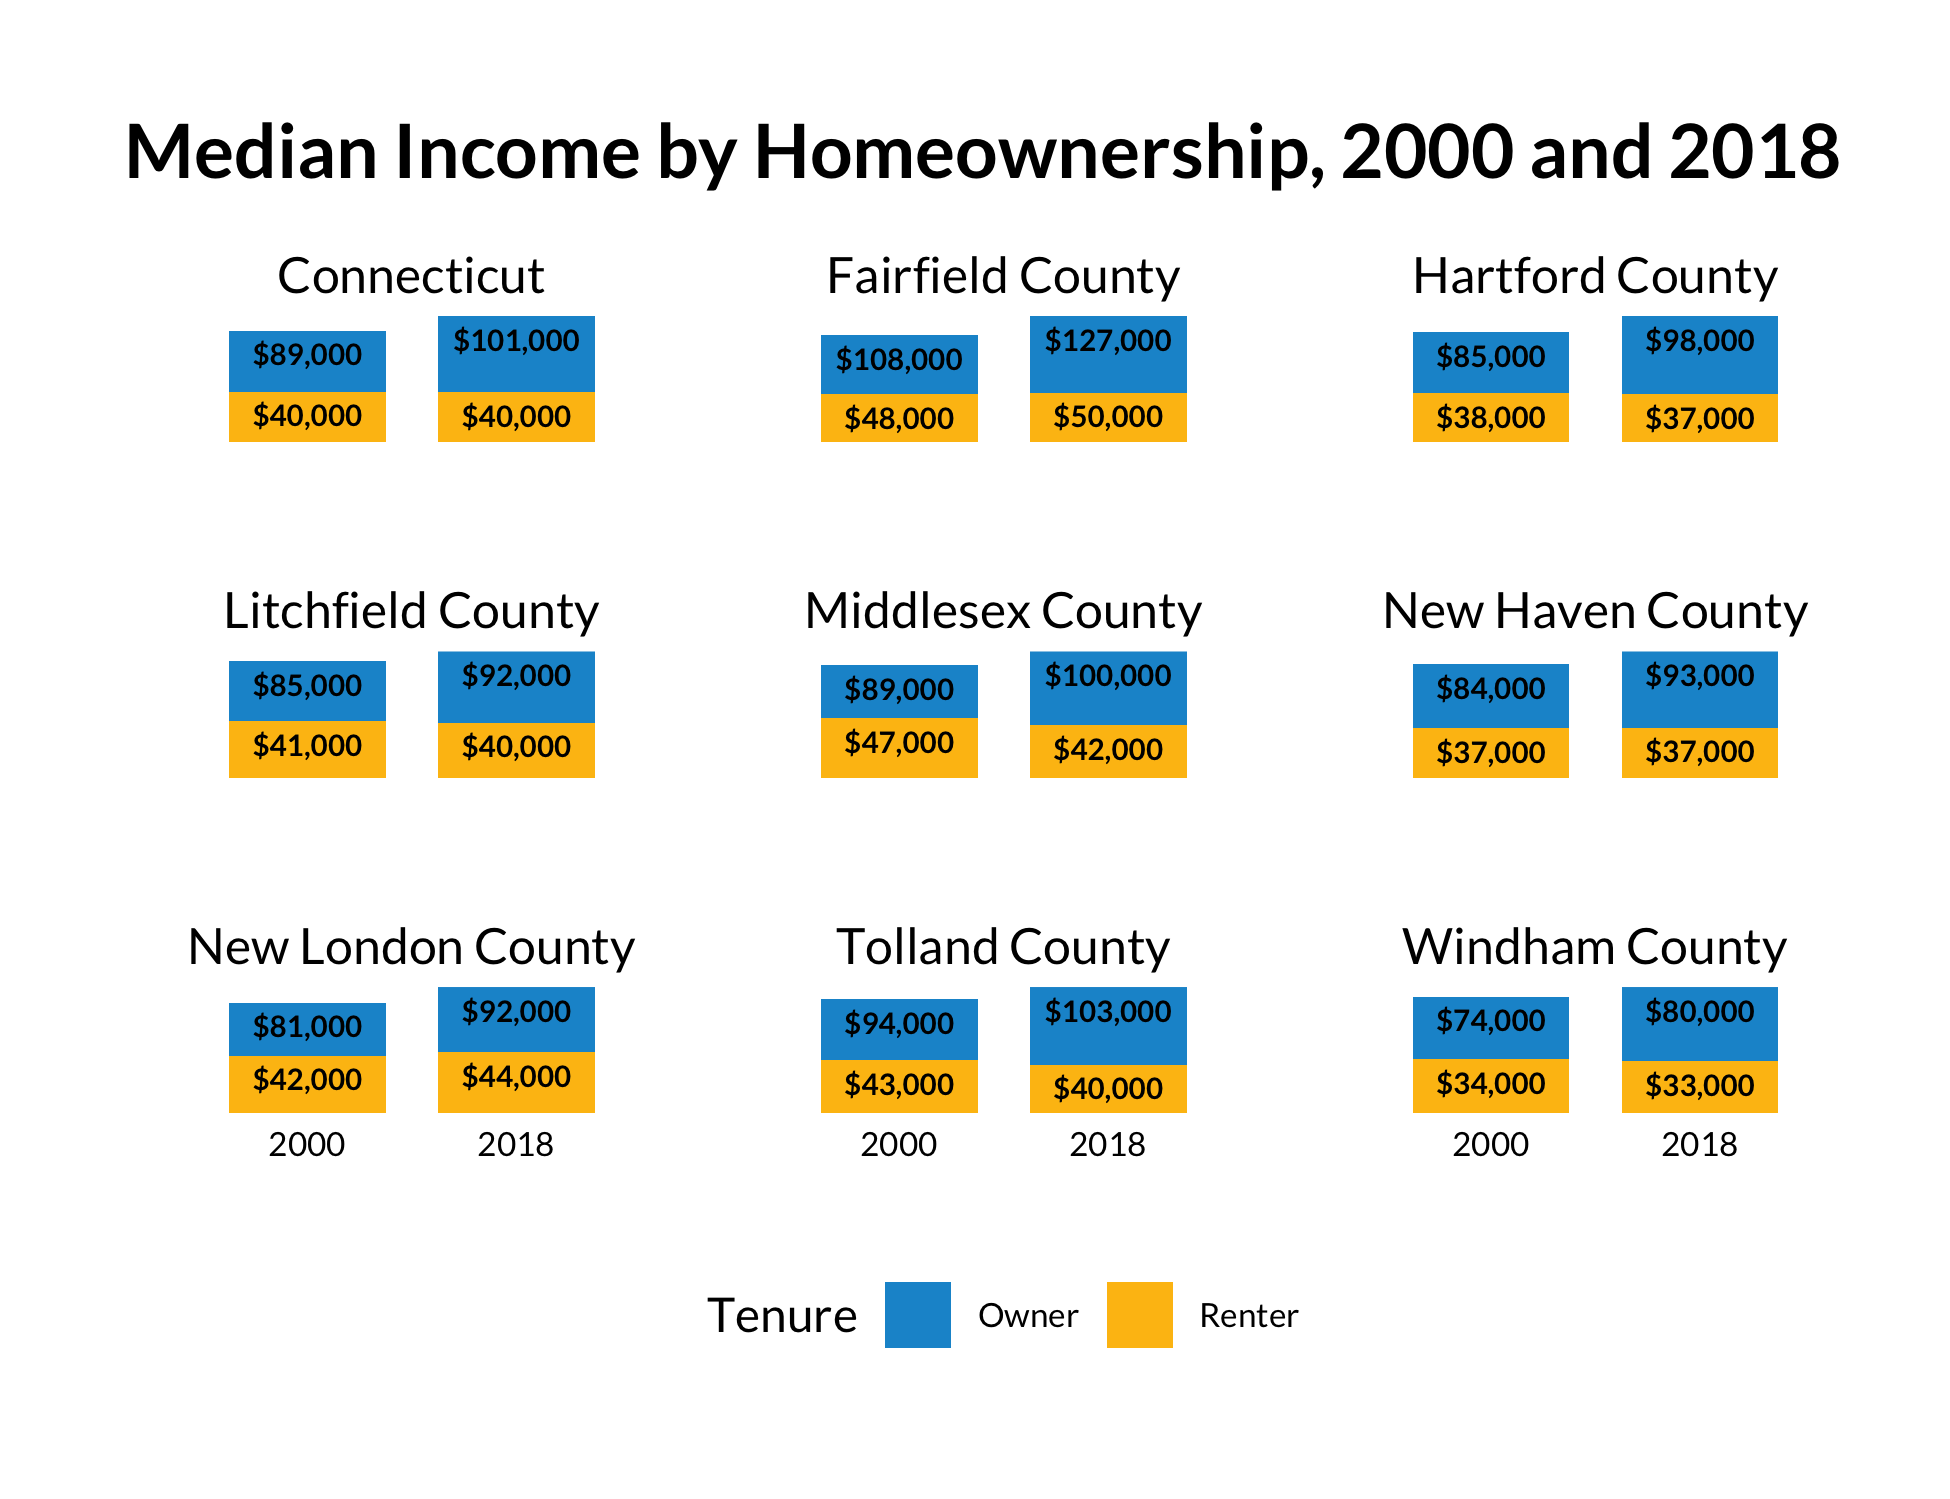
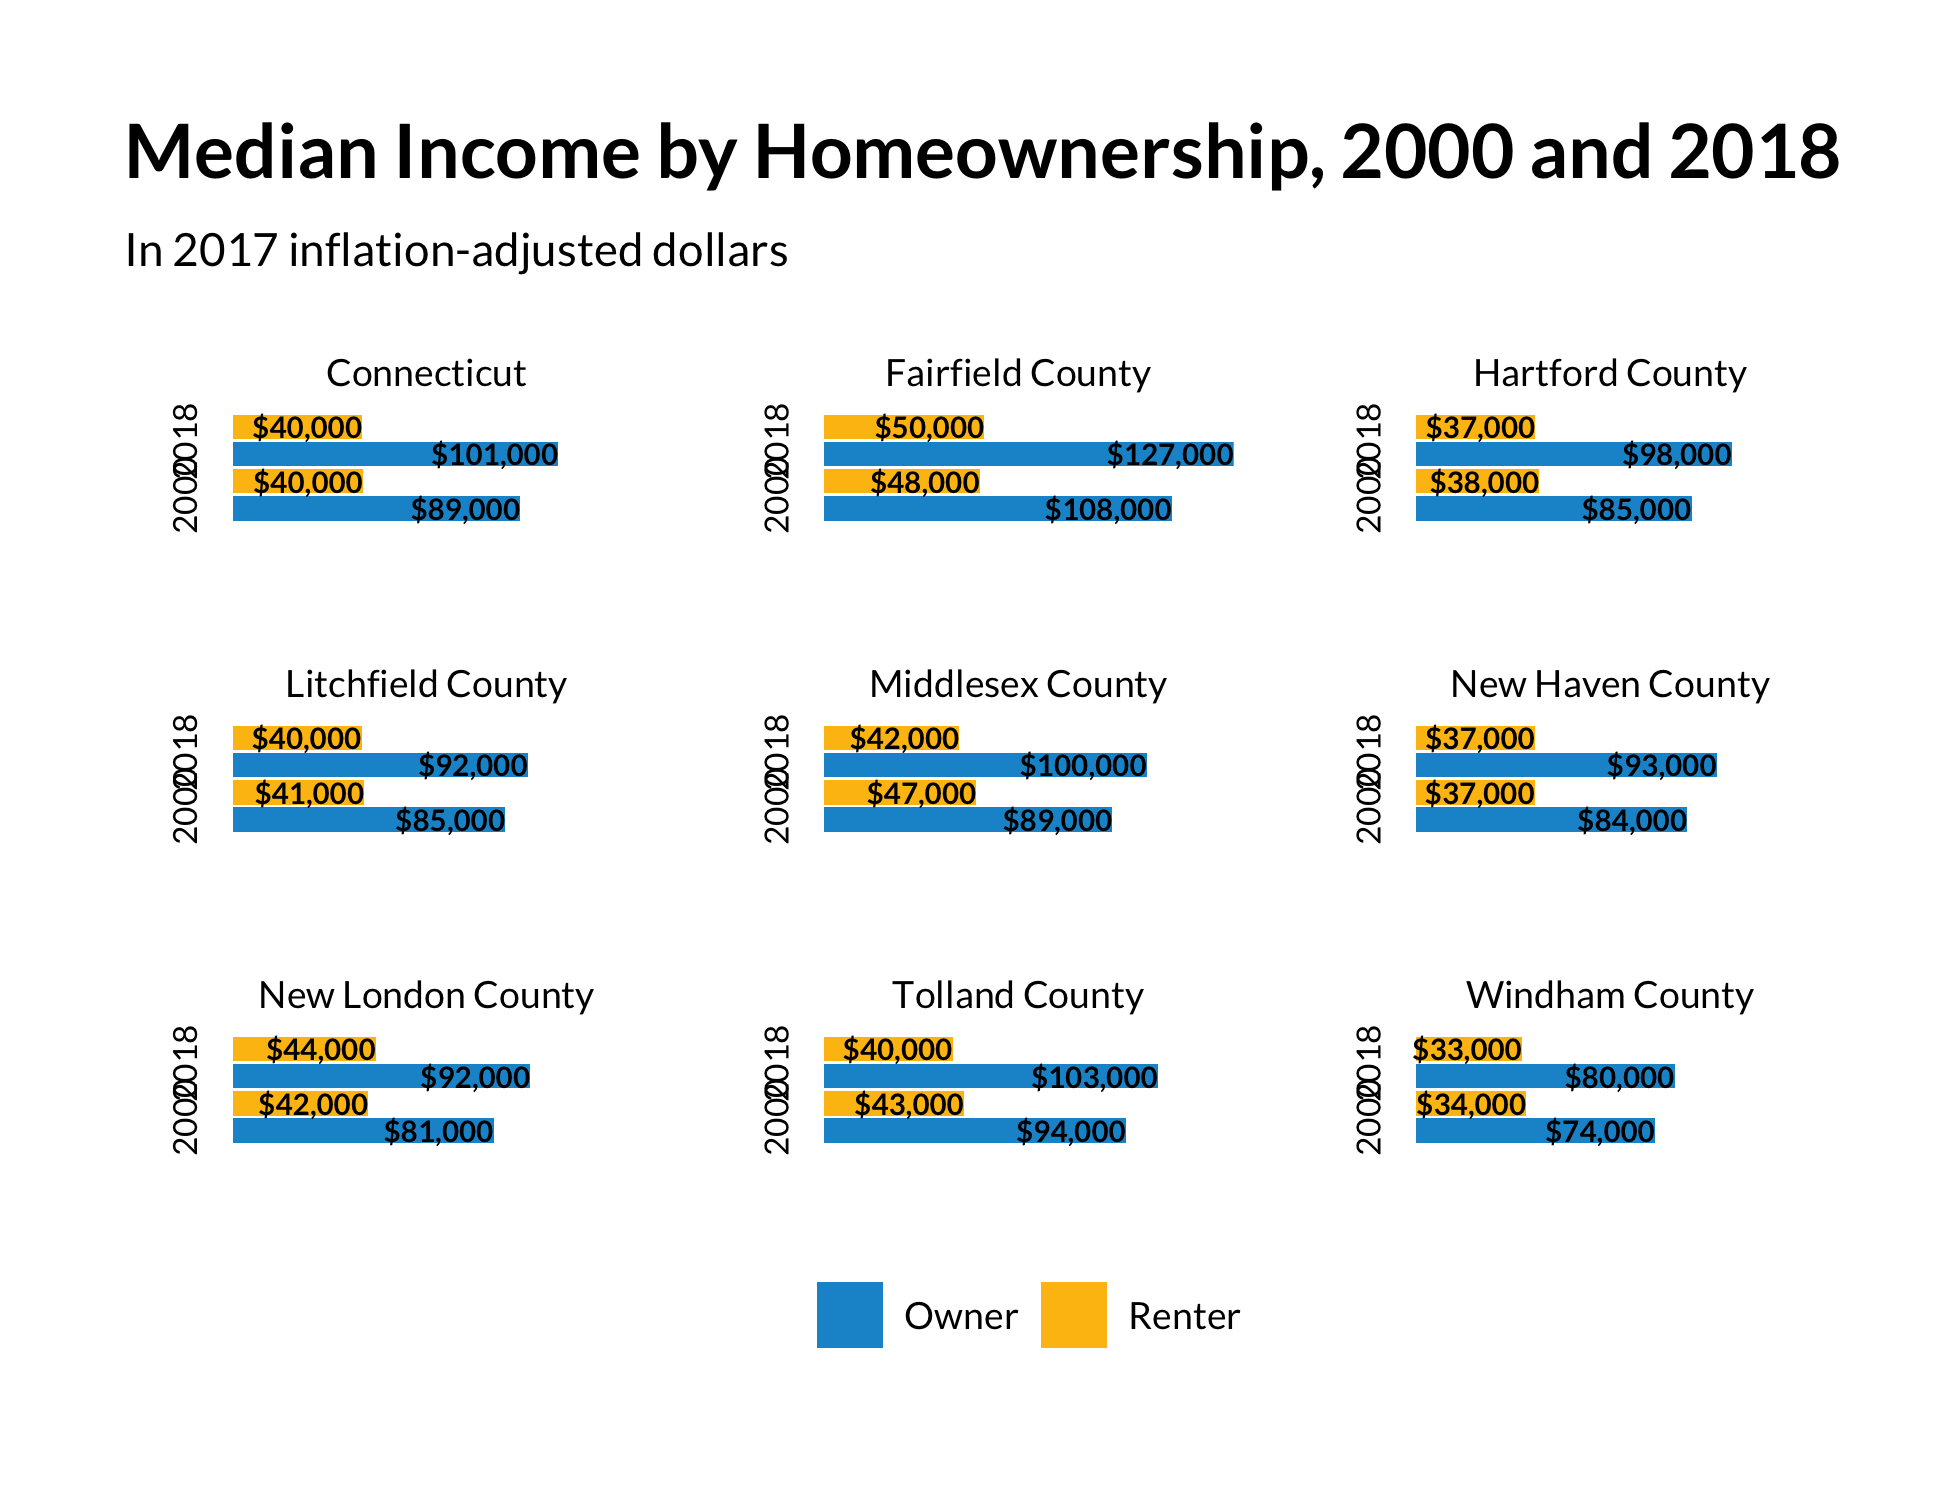
fix minc tenure charts

diff --git a/notebooks/minc_by_tenure.md b/notebooks/minc_by_tenure.md
@@ -765,24 +765,28 @@ write_csv(minc_tenure, "../output_data/minc_by_tenure_2000_2018.csv")
 ``` r
 minc_tenure %>% 
     filter (year != 2010) %>% 
-    rename(Tenure = ownershp2) %>% 
-    ggplot(aes(year, minc, group = Tenure)) +
-    geom_col(aes(fill = Tenure), position = position_dodge(0), width = 1.5) +
-    geom_text(aes(label = scales::dollar(minc, accuracy = 1e3)), vjust = 1.6, family = "Lato Bold", size = 2.5, position = position_dodge(0)) +
-    scale_y_continuous(expand = expansion(mult = c(.05, 0))) +
+    rename(Homeownership = ownershp2) %>% 
+    ggplot(aes(minc, year, group = Homeownership)) +
+    geom_col(aes(fill = Homeownership), position = position_dodge(1), width = 0.9) +
+    geom_text(aes(label = scales::dollar(minc, accuracy = 1e3)), hjust = 1, family = "Lato Bold", size = 2.5, position = position_dodge(1)) +
+    scale_x_continuous(expand = expansion(mult = c(.05, 0))) +
     facet_wrap(facets = "name", scales = "free_y") +
   scale_fill_manual(values = c(pal[1:2])) +
     scale_color_manual(values = c(pal[1:2])) +
     labs(title = "Median Income by Homeownership, 2000 and 2018",
+             subtitle = "In 2017 inflation-adjusted dollars",
              x = "", y = "") +
+    guides(fill = guide_legend(title = "")) +
     theme(plot.title.position = "plot",
-                axis.text.y = element_blank(),
-                legend.text = element_text(family = "Lato Regular", size = 8),
+                axis.text.x = element_blank(),
+                plot.subtitle = element_text(family = "Lato Regular", size = 11),
+                legend.text = element_text(family = "Lato Regular", size = 9),
+                legend.title = element_text(family = "Lato Regular", size = 9),
                 plot.title = element_text(family = "Lato Bold"),
                 panel.grid.major = element_blank(),
                 panel.grid.minor = element_blank(),
-                axis.text.x = element_text(colour = "black", size = 8, family = "Lato Regular"),
-                strip.text.x = element_text(hjust = .5, colour = "black", family = "Lato Regular"),
+                axis.text.y = element_text(angle = 90, hjust = .5, colour = "black", size = 8, family = "Lato Regular"),
+                strip.text.x = element_text(hjust = .5, colour = "black", size = 9, family = "Lato Regular"),
                 legend.position = "bottom")
 ```
 
